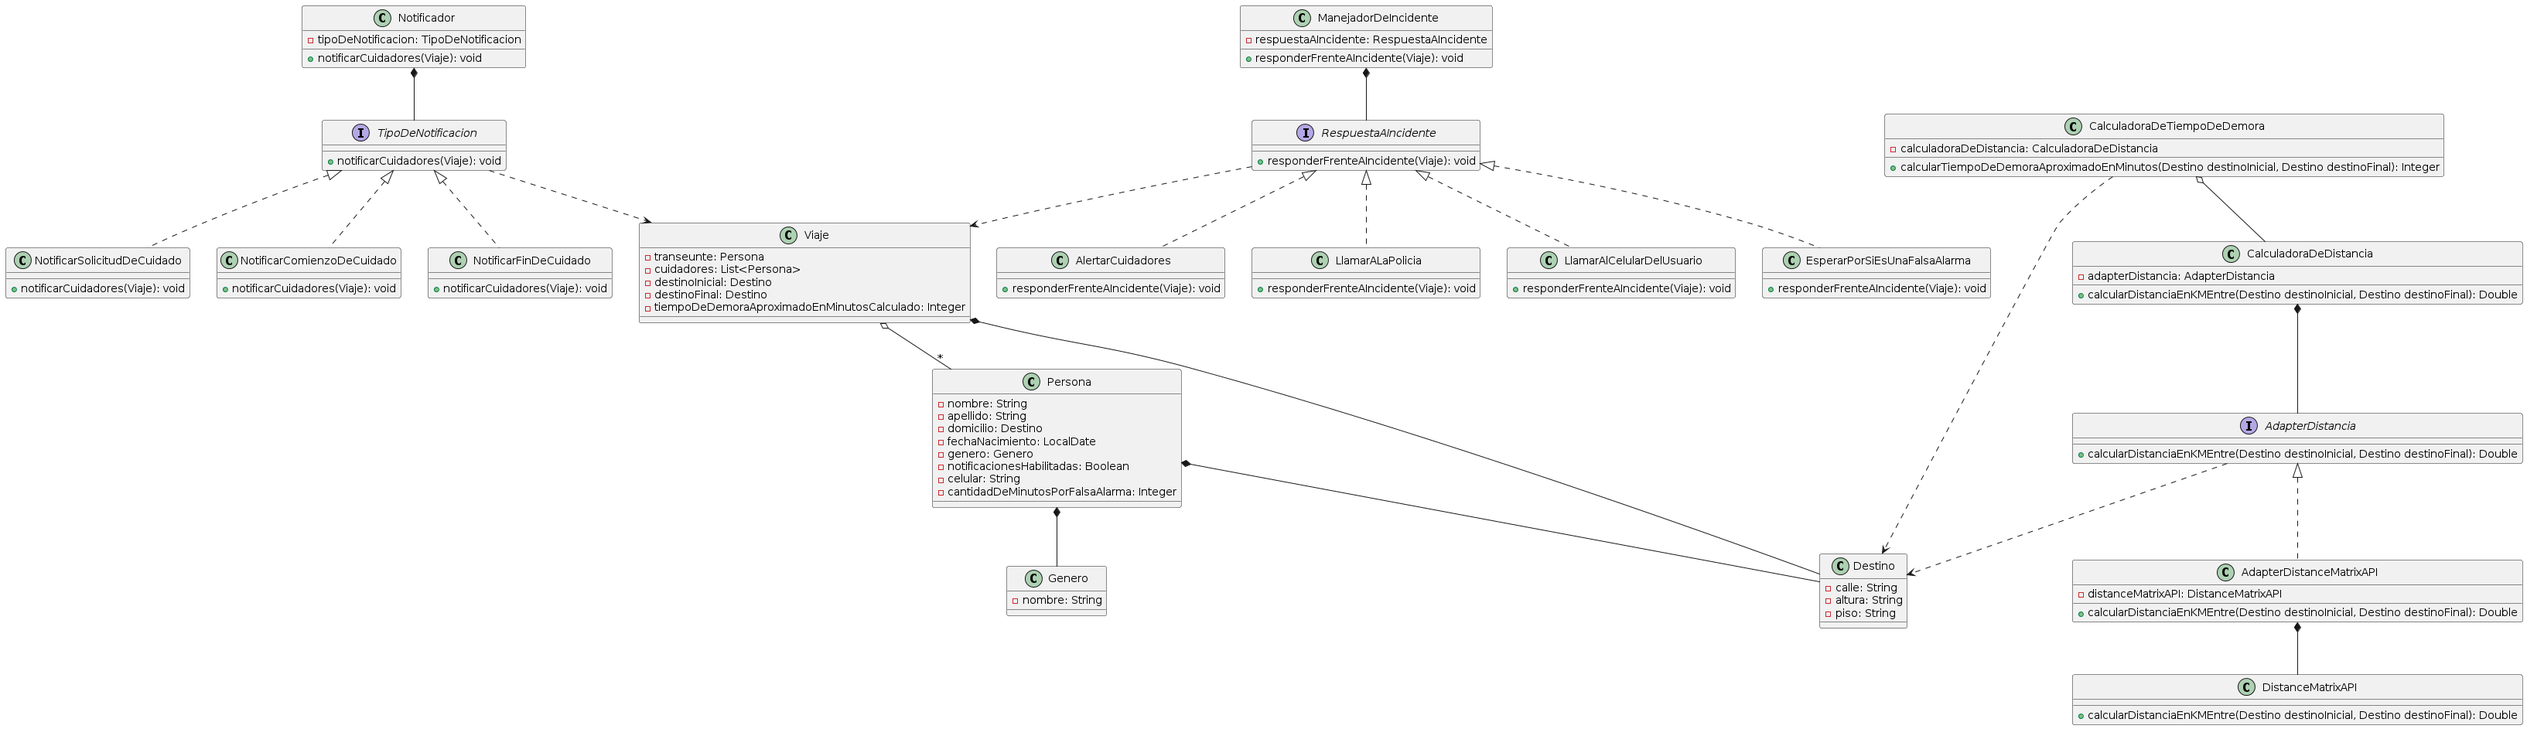
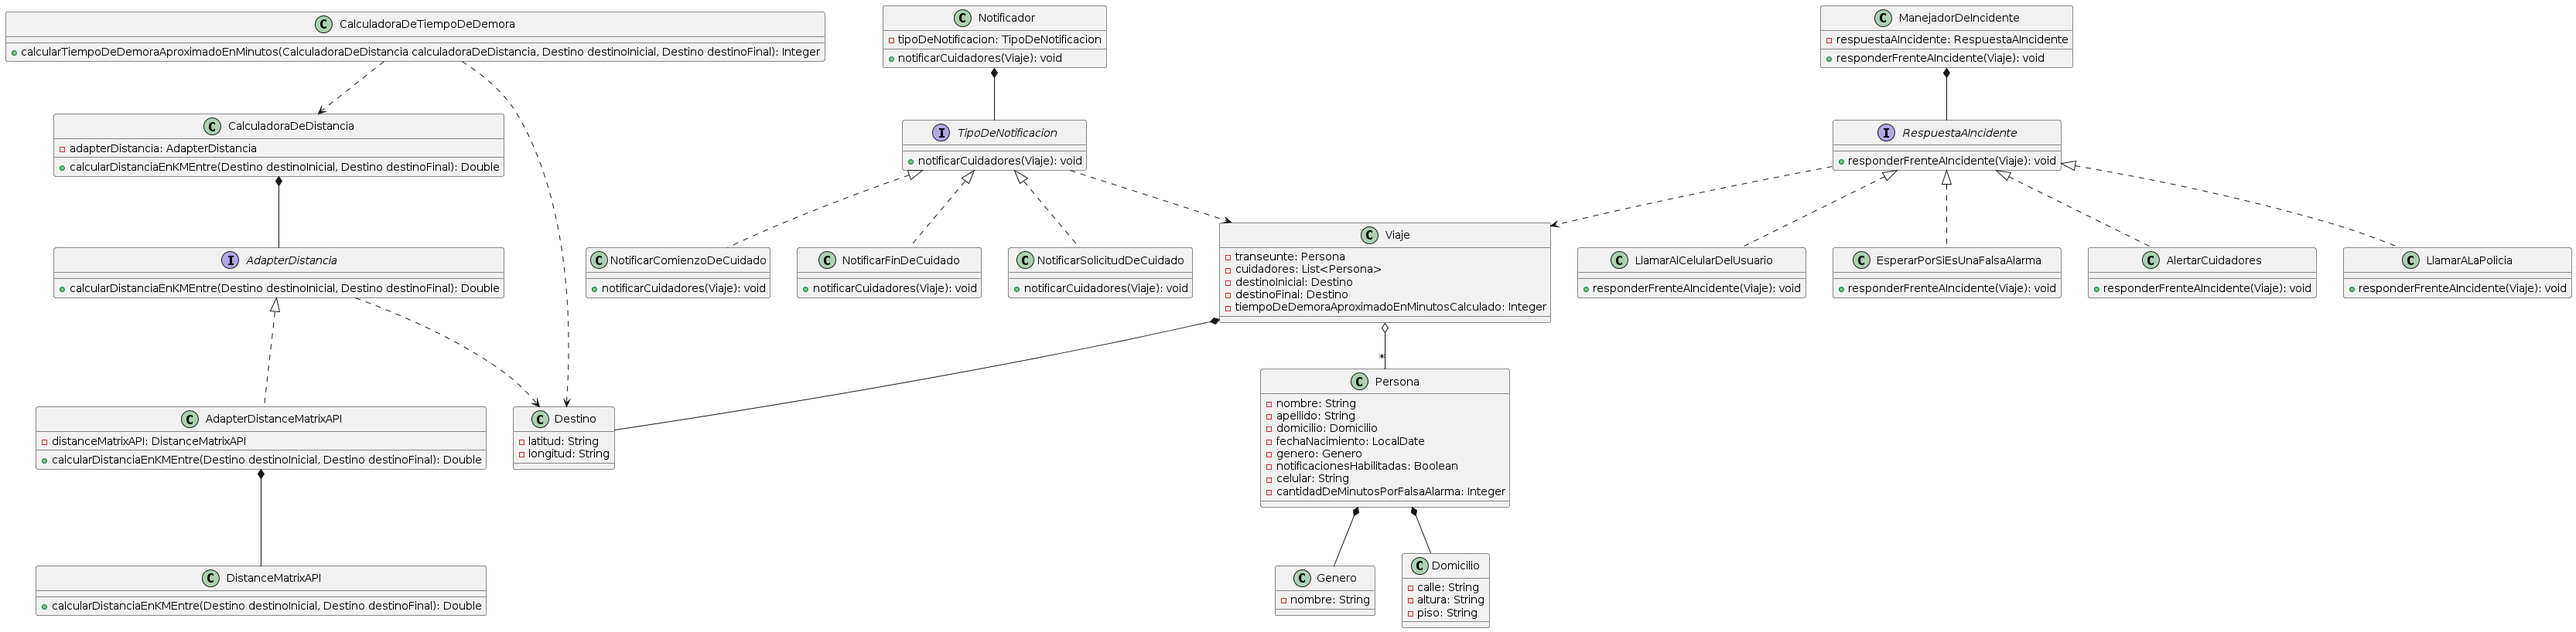
agrego clase Domicilio

diff --git a/src/main/java/ar/utn/frba/dds/CalculadoraDeTiempoDeDemora.java b/src/main/java/ar/utn/frba/dds/CalculadoraDeTiempoDeDemora.java
@@ -1,9 +1,7 @@
 package ar.utn.frba.dds;
 
-public class CalculadoraDeTiempoDeDemora
-{
-    private CalculadoraDeDistancia calculadoraDeDistancia;
-    public Integer calcularTiempoDeDemoraAproximadoEnMinutos(List<Destino> paradas){
+public class CalculadoraDeTiempoDeDemora {
+    public Integer calcularTiempoDeDemoraAproximadoEnMinutos(CalculadoraDeDistancia calculadoraDeDistancia, List<Destino> paradas){
         Double distanciaEnKMTotal = 0.0;
         Integer tiempoDetenidoEnMinutos = 0;
 
